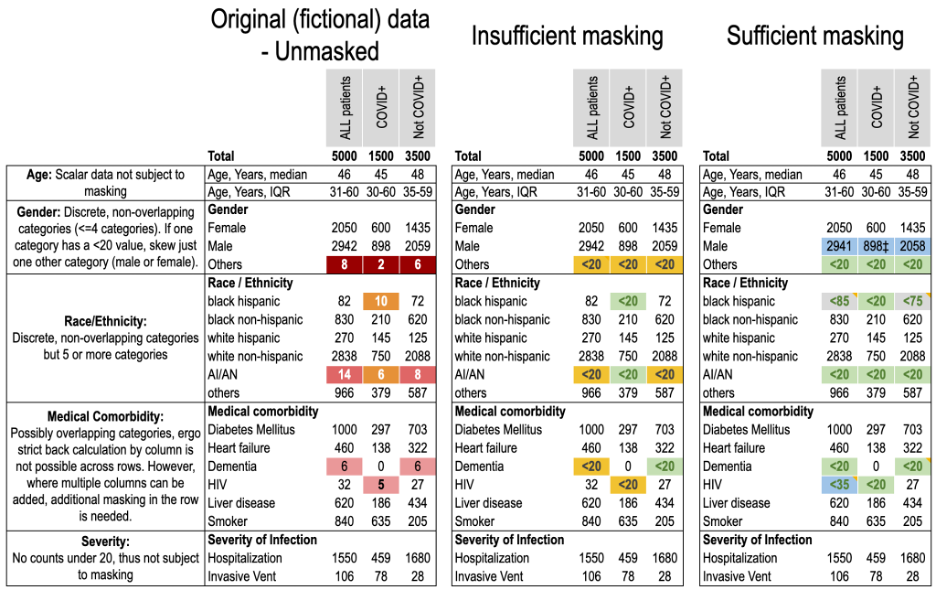
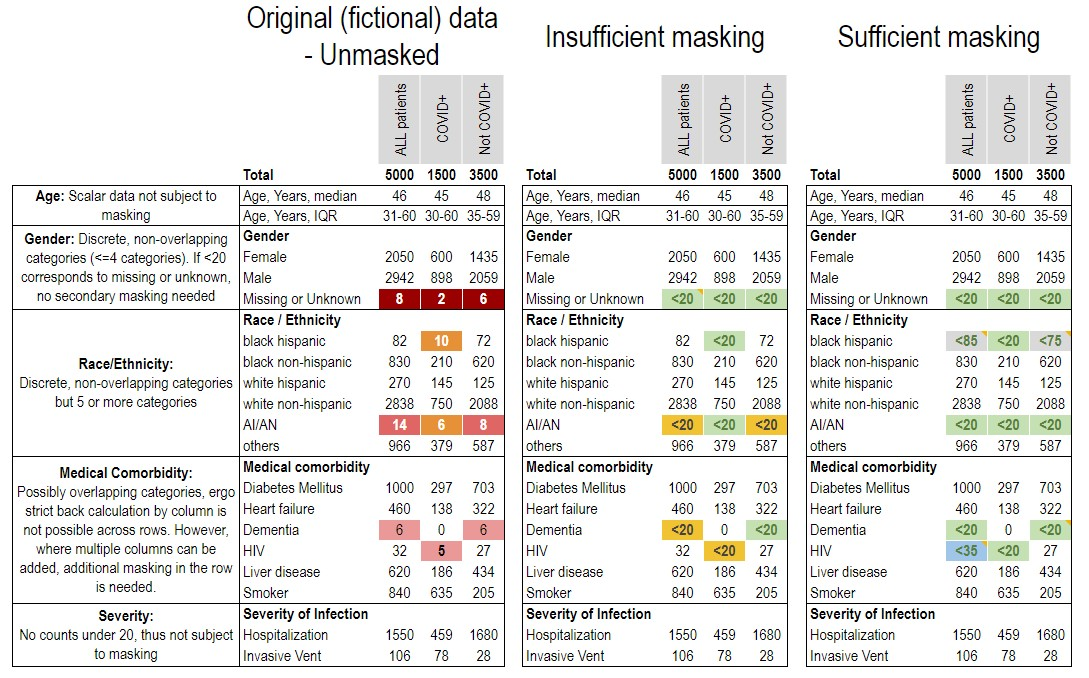
updates to publishing chapter

diff --git a/chapters/publishing.md b/chapters/publishing.md
@@ -74,6 +74,7 @@ The guiding principle of the Publication Committee is to be a steward of the fol
 1. **Data partners and individual patients**: Assure that the publication is:
     1. Consistent with the approved Data Use Request (**DUR**)
     1. Consistent with policies to protect the identity of individuals, data partners, and marginalized groups
+    1. Focused on COVID-19
 
 1. **Individual consortial contributors**: Assure inclusive and appropriate attribution of the work that went into the data elements used for a given analysis or publication.
 Many individuals contribute time and expertise into building the N3C, and it is important to acknowledge their work.
@@ -129,6 +130,7 @@ A strong scientific rationale for this must be provided.
 NCATS makes the final decision about whether to approve the appeal.
 In no cases may group sizes below 10 be considered.
 Authors must include an asterisk or footnote in their manuscript to indicate that the values as low as 10 are reported with approval from the N3C Download Committee.
+For gender categories such as _missing/unknown_, a single level of masking is sufficient. See the example below.
 
 Example: Consider the following fictional table, which reports several aggregations of fewer than 20 patients in the 'other' gender category, race (AI/AN, black), and in comorbidities (Dementia, HIV).
 In their original form (left) these would violate the policy, as there are several values reported below 20.
